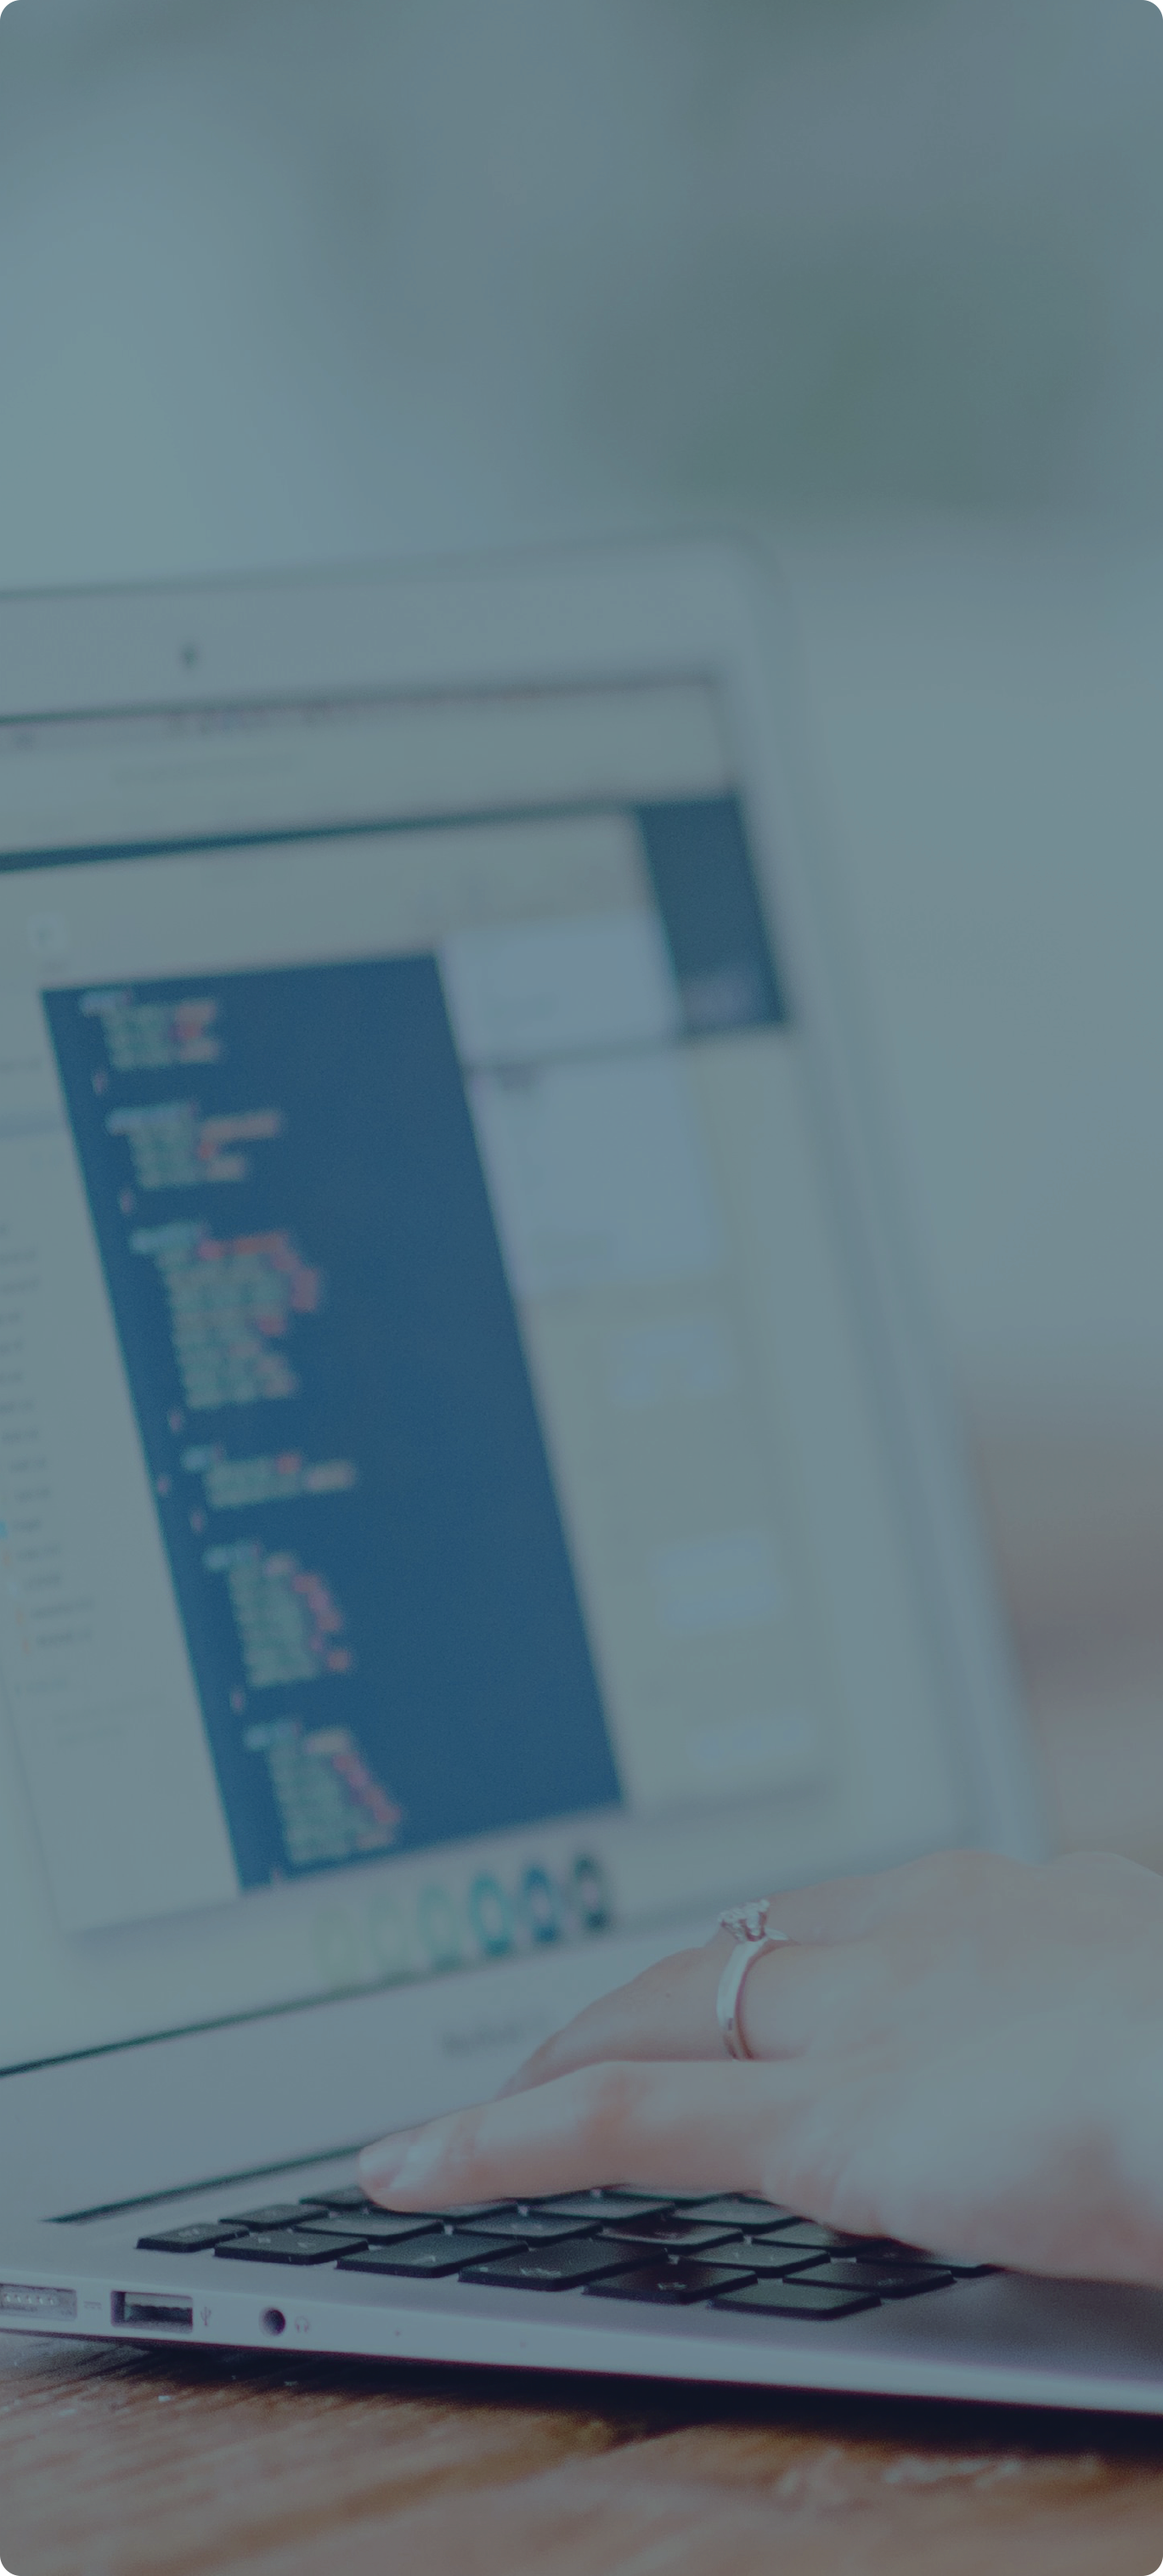
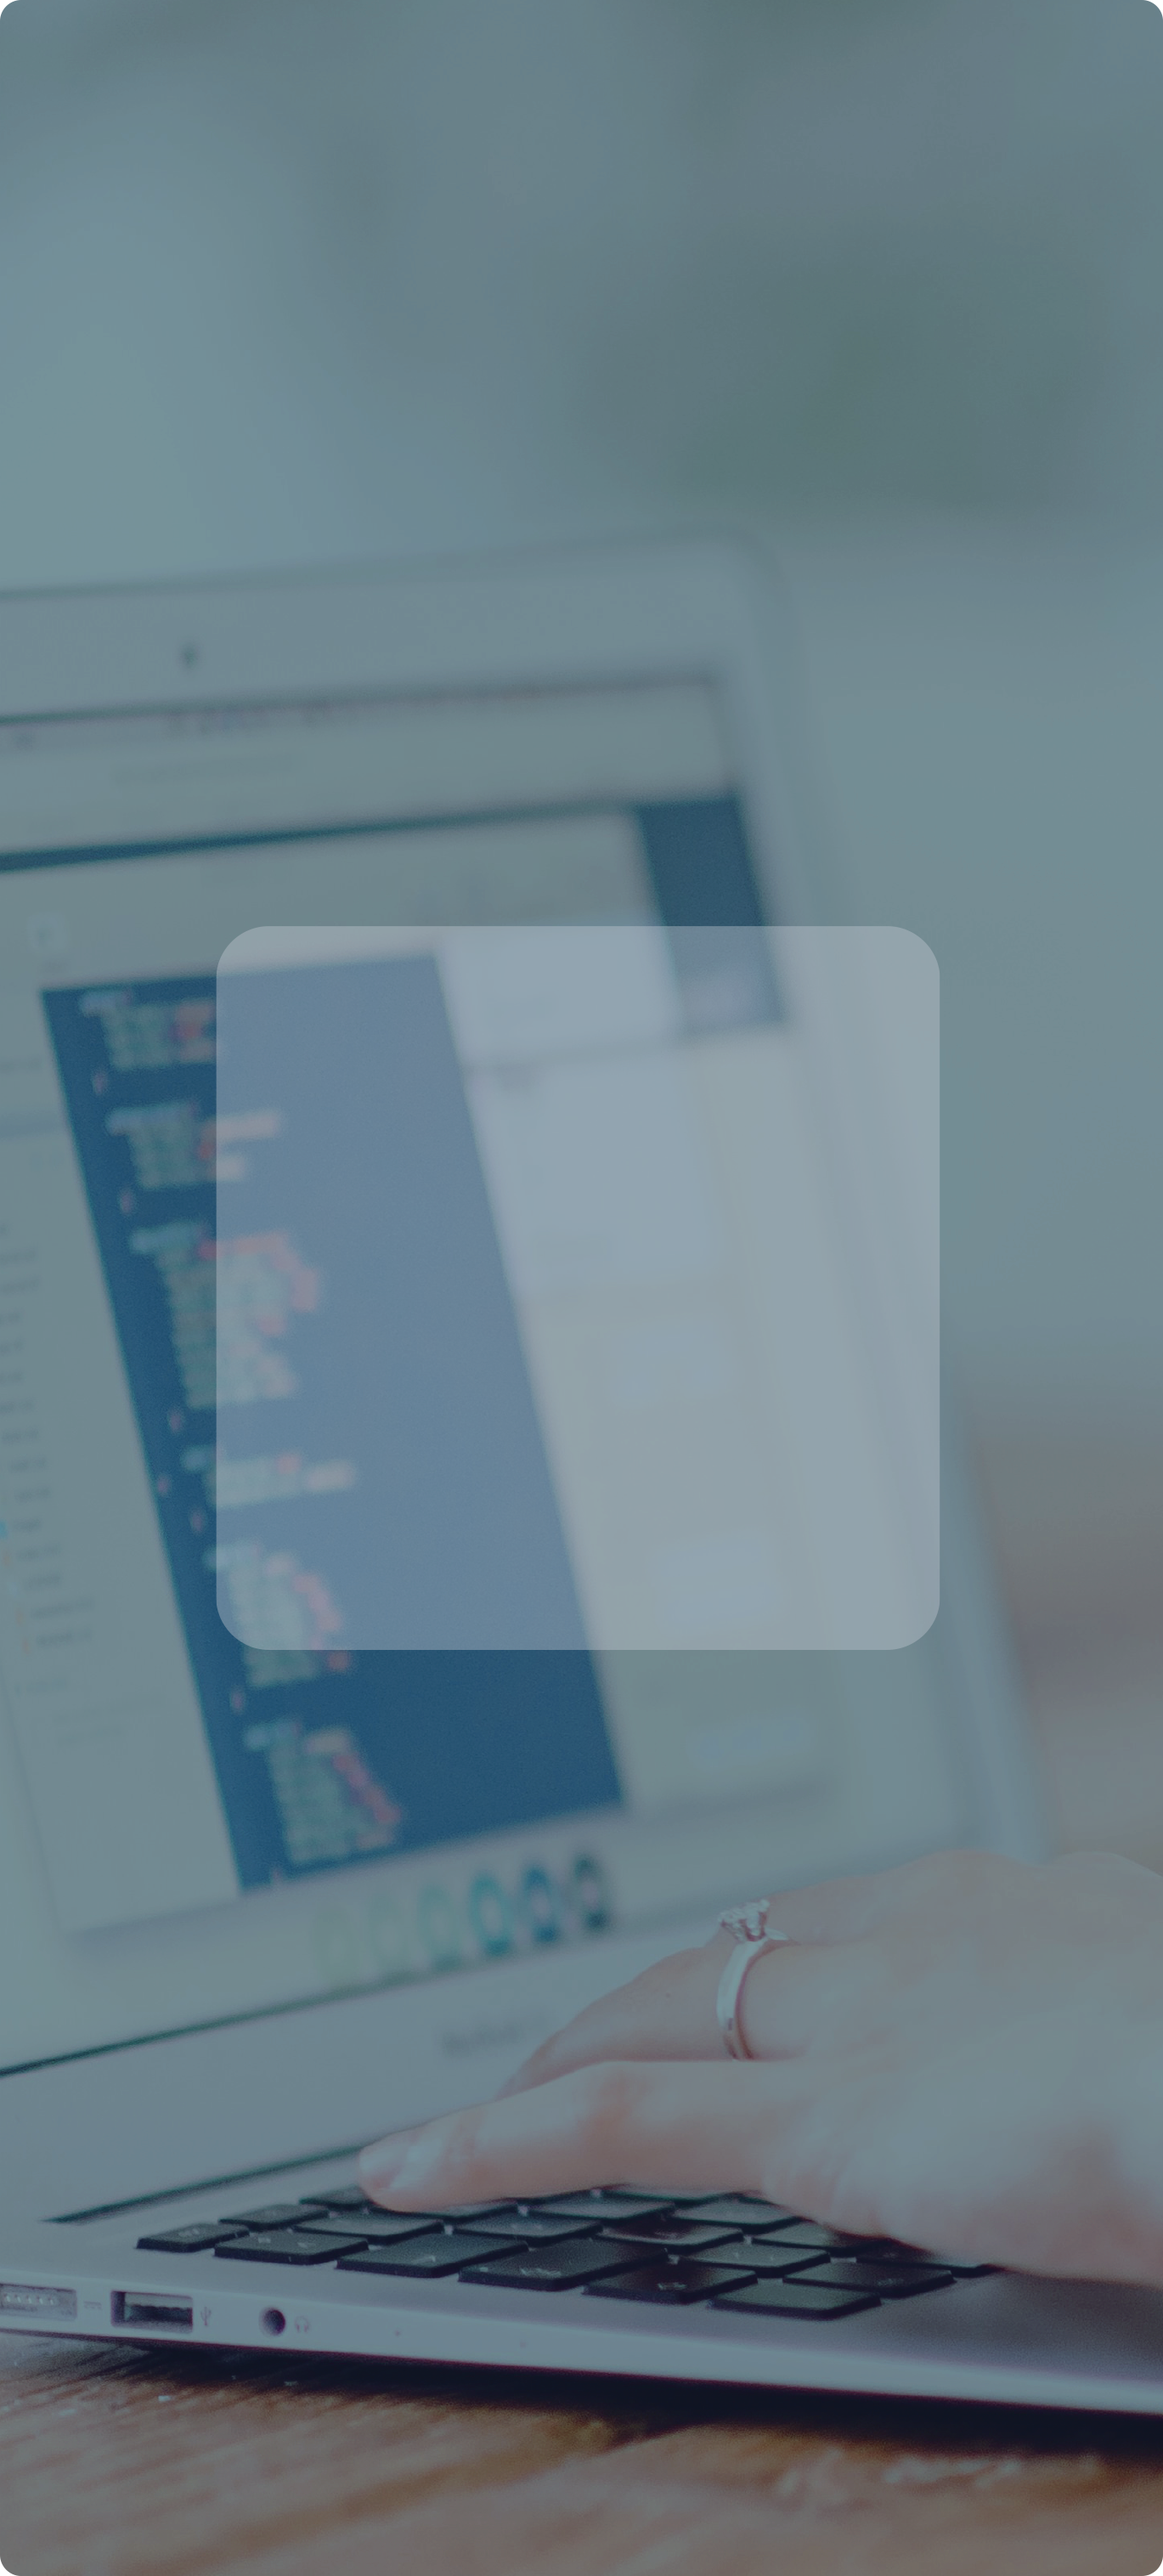
남은거 : navbar 자간 수정, 버튼 설정, 스크롤 에니메이션 수정, 메일 전송기능

Changed region(s): [[0.1841, 0.341, 0.8283, 0.6511]]

diff --git a/app/assets/stylesheets/landing-page.scss b/app/assets/stylesheets/landing-page.scss
@@ -8,6 +8,9 @@ body {
   height: 100%;
   font-family: "Lora", "Helvetica Neue", Helvetica, Arial, sans-serif, NanumBarunGothicOTF, NanumSquareOTF;
   background-image: url(asset_path('ic_background_pattern'));
+  background-repeat: repeat;
+  background-attachment: fixed;
+  background-size: 100% auto;
 }
 html {
   width: 100%;
@@ -116,7 +119,7 @@ a:focus {
   outline: none;
 }
 .navbar-custom .nav li.active a {
-  background-color: rgba(255, 255, 255, 0.3);
+  //background-color: rgba(255, 255, 255, 0.3);
 }
 .navbar-custom .nav li.active a:hover {
   color: white;
@@ -183,6 +186,7 @@ a:focus {
     vertical-align: middle;
   }
   .intro .intro-body .intro-wrap-container {
+    display:flex; justify-content:center; align-items:center;
   }
 }
 .btn-round-rectangle {
@@ -243,7 +247,7 @@ a:focus {
   width: 86px;
   height: 30px;
   margin-top: -4px;
-  display:flex;justify-content:center;align-items:center;
+  display:flex; justify-content:center; align-items:center;
   border-radius: 8px !important;
   background: #008b9c;
   -webkit-transition: background 0.3s ease-in-out;
@@ -305,10 +309,22 @@ a:focus {
 .apply-startup, .apply-student {
   background: /* url() */ no-repeat center scroll;
   background-size: contain;
-  padding-top: /* 55.3% */ 22%;
-  padding-bottom: 22%;
+  padding-top: /* 55.3% */ 24.3%;
+  padding-bottom: 24.3%;
   width: 25%;
   height: auto;
+  p {
+    font-family: NanumSquare;
+    font-size: 10pt;
+    margin-top: 8pt;
+  }
+}
+@media (min-width: 768px) {
+  .apply-startup p,
+  .apply-student p {
+    font-size: 16pt;
+    margin-top: 8pt;
+  }
 }
 .apply-student {
   background-image: url(asset_path('ic_background_apply_student'));
@@ -377,8 +393,10 @@ footer p {
   margin: 0;
 }
 .footer-custom {
+  background: #404c54;
   padding: 20px;
   p {
+    color: #ffffff;
     font-family: "Nanum Gothic";
     font-size: 12px;
   }

diff --git a/app/assets/javascripts/landing-page.js b/app/assets/javascripts/landing-page.js
@@ -32,14 +32,6 @@ $('.navbar-collapse ul li a').click(function() {
     $(this).closest('.collapse').collapse('toggle');
 });
 
-// Google Maps Scripts
-var map = null;
-// When the window has finished loading create our google map below
-google.maps.event.addDomListener(window, 'load', init);
-google.maps.event.addDomListener(window, 'resize', function() {
-    map.setCenter(new google.maps.LatLng(40.6700, -73.9400));
-});
-
 function init() {
     // Basic options for a simple Google Map
     // For more options see: https://developers.google.com/maps/documentation/javascript/reference#MapOptions
